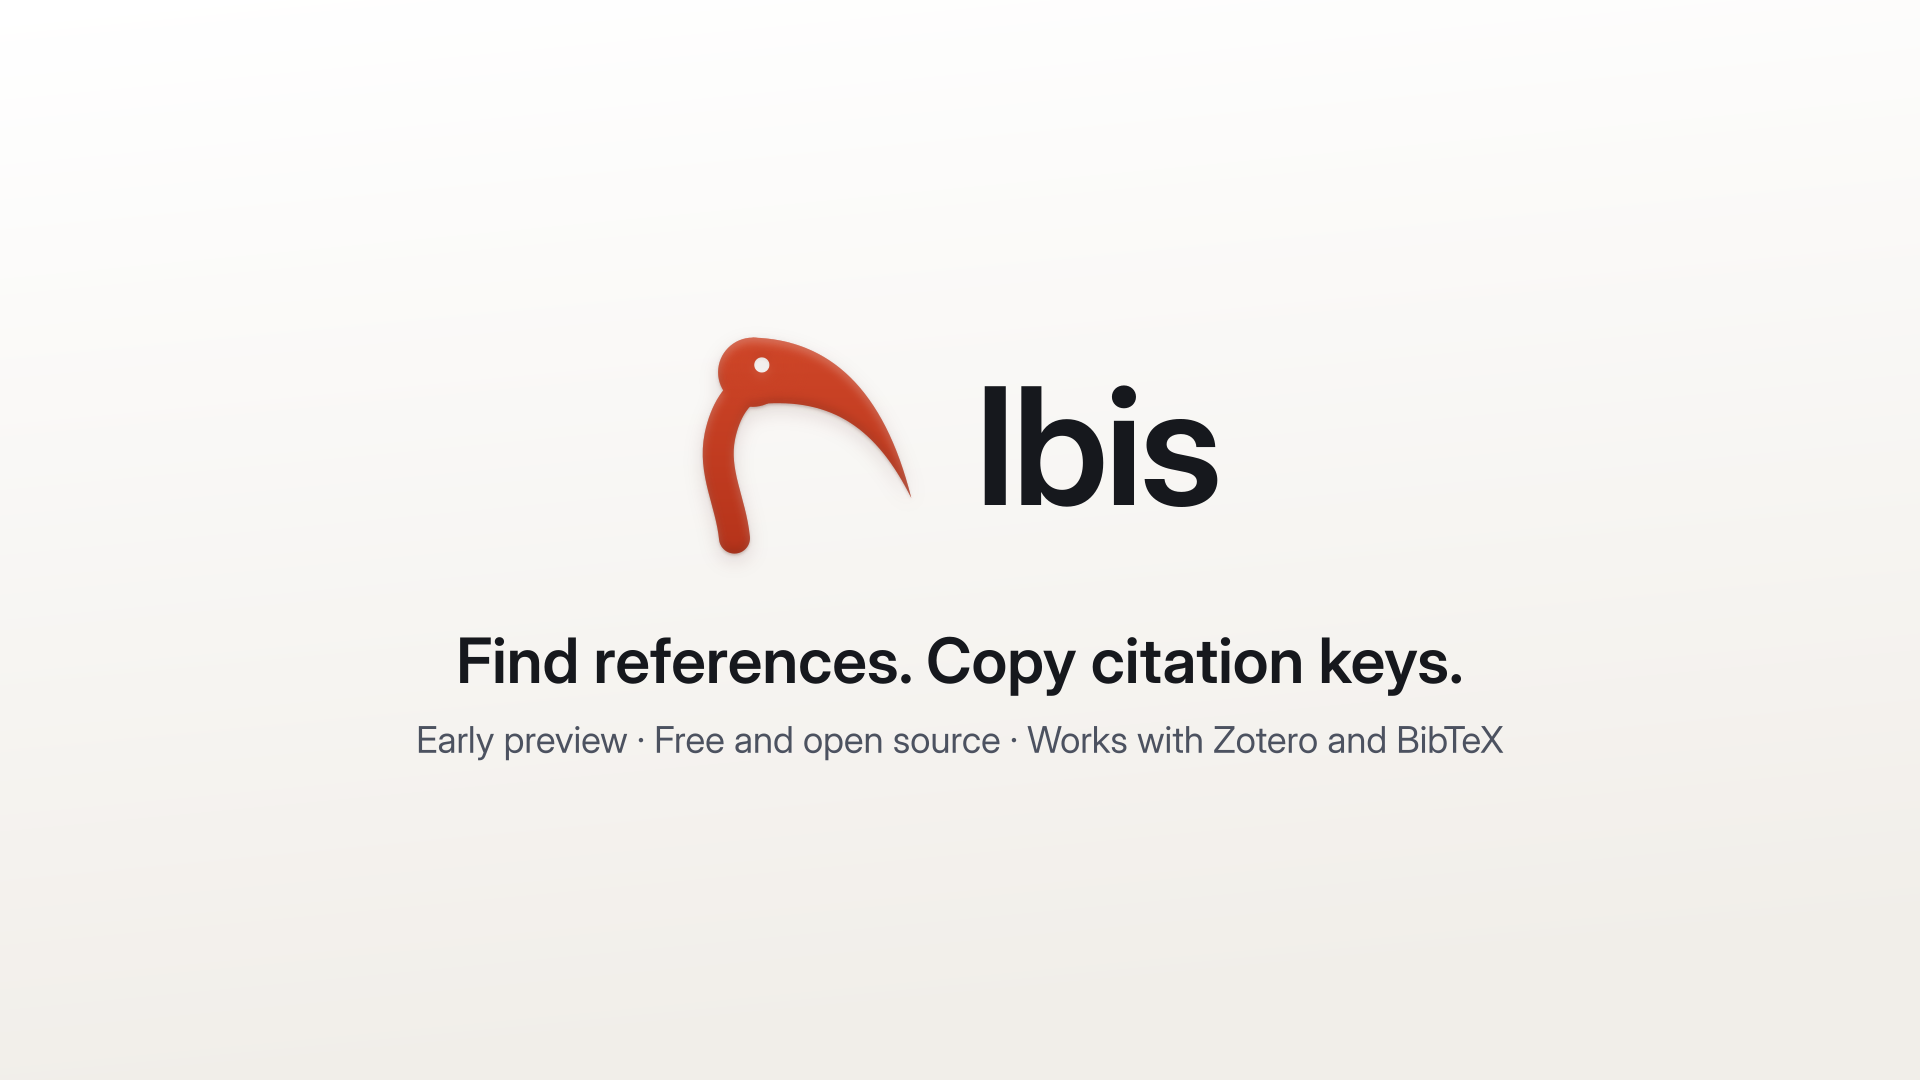
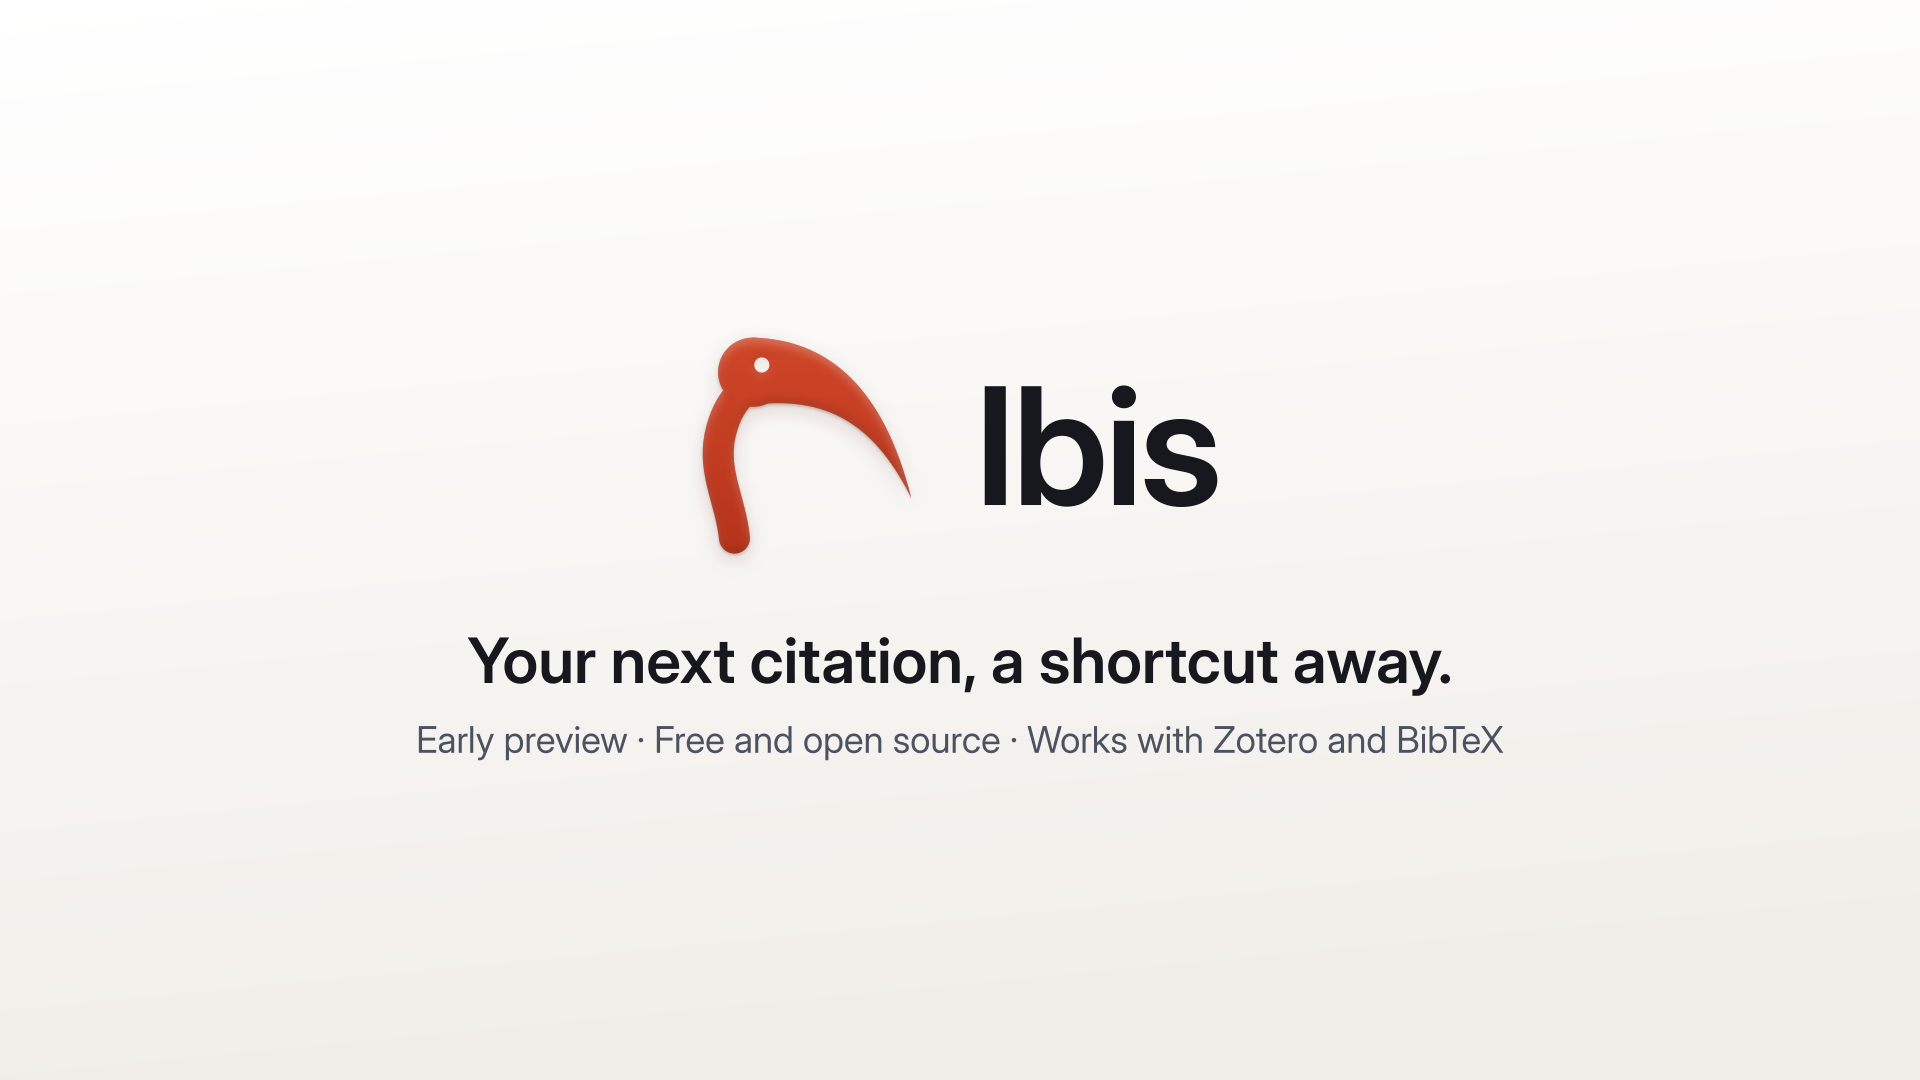
docs: align public messaging with the Ibis brand headline
Assisted-by: Codex GPT-6

Changed region(s): [[0.2188, 0.5806, 0.7812, 0.6417]]

diff --git a/scripts/test_brand.py b/scripts/test_brand.py
@@ -1,5 +1,7 @@
 """The brand drift check reports stale, missing and unexpected generated files."""
 from pathlib import Path
+import html
+import json
 import os
 import runpy
 import tempfile
@@ -10,6 +12,13 @@ BUILD = runpy.run_path(str(Path(__file__).resolve().parents[1] / "brand/build.py
 
 
 class BrandDrift(unittest.TestCase):
+    def test_readme_uses_the_current_public_headline(self):
+        root = Path(__file__).resolve().parents[1]
+        words = json.loads((root / "brand/settings.json").read_text())["words"]
+        headline = f'<strong>{html.escape(words["tagline"])}</strong>'
+        self.assertTrue(headline in (root / "README.md").read_text(),
+                        "README headline must match brand/settings.json words.tagline")
+
     def test_text_rendering_does_not_inherit_the_native_font_backend(self):
         with patch.dict(os.environ, {"PANGOCAIRO_BACKEND": "coretext"}), patch("subprocess.run") as render:
             BUILD["png"]("synthetic.svg", "synthetic.png", 32)

diff --git a/README.md b/README.md
@@ -5,7 +5,7 @@
   </picture>
 </h1>
 
-<p align="center"><strong>Find references. Copy citation keys.</strong><br>Search your libraries, copy a citation key or a formatted citation, and paste it where you write.</p>
+<p align="center"><strong>Your next citation, a shortcut away.</strong><br>Search your libraries, copy a citation key or a formatted citation, and paste it where you write.</p>
 
 Ibis is free and open source. Searching and copying work offline after setup. Ibis adds no analytics and never changes your libraries. See [privacy and local storage](PRIVACY.md) for runtime data and optional update checks.
 
@@ -43,7 +43,7 @@ Some Linux desktops, including GNOME without a tray extension, show no tray icon
 ## First use
 
 1. Press the shortcut. The first time, Ibis offers Zotero if it is open and lists `.bib` files in your Documents, Desktop and Downloads folders; pick one, or choose **Choose library…** for any other file. It also asks where you write and sets the copy format to match.
-2. Type a few words from the author, title or year, and use the arrow keys to pick a reference.
+2. Search by author, title, year, journal, citation key or keywords. You can combine words from different fields. Use the arrow keys to pick a reference.
 3. Press **Enter** to copy the citation, then paste it into your document. **Shift+Enter** adds several references to one citation. Press **Ctrl+/** (**⌘/** on macOS) to see every key.
 
 Hide or show the citation output with **Show what will be pasted** in **More**, or **Ctrl+I** (**⌘I** on macOS). Ibis remembers this choice; the references you added stay selected.

diff --git a/brand/README.md b/brand/README.md
@@ -36,7 +36,7 @@ M is the height of the bird.
 - **Colour.** Scarlet 600 `#C23A1C` on light backgrounds and Scarlet 400 `#FF7A5C` on dark. Text is Ink `#16181D` or Slate `#4C5260` on light, and near-white on dark. The full Scarlet scale (50 to 900) is for websites and videos: tints for backgrounds, 600 to 800 for text and links on light. Never stretch, outline or recolour the bird in other hues, or add effects.
 - **Themes.** Websites use `colors.css`: light by default, dark when the system is dark, and an optional dim theme (`data-theme="dim"`) for a softer charcoal. Each theme names the same roles: `bg`, `surface`, `line`, `text`, `muted`, `accent`, `accent-soft`.
 - **Motion.** The logo animation draws the neck, grows the head and beak out together as one shape, then fades in the wordmark, in about 1.5 s. People who ask their system for reduced motion see the finished logo. Use it once per page or video, never on a loop.
-- **Words.** Lead with "Find references. Copy citation keys." Say "early preview" until 1.0, and name only what ships today.
+- **Words.** Use `words.tagline` in `settings.json` for the public headline. Say "early preview" until 1.0, and name only what ships today.
 
 ## Changing the brand
 
